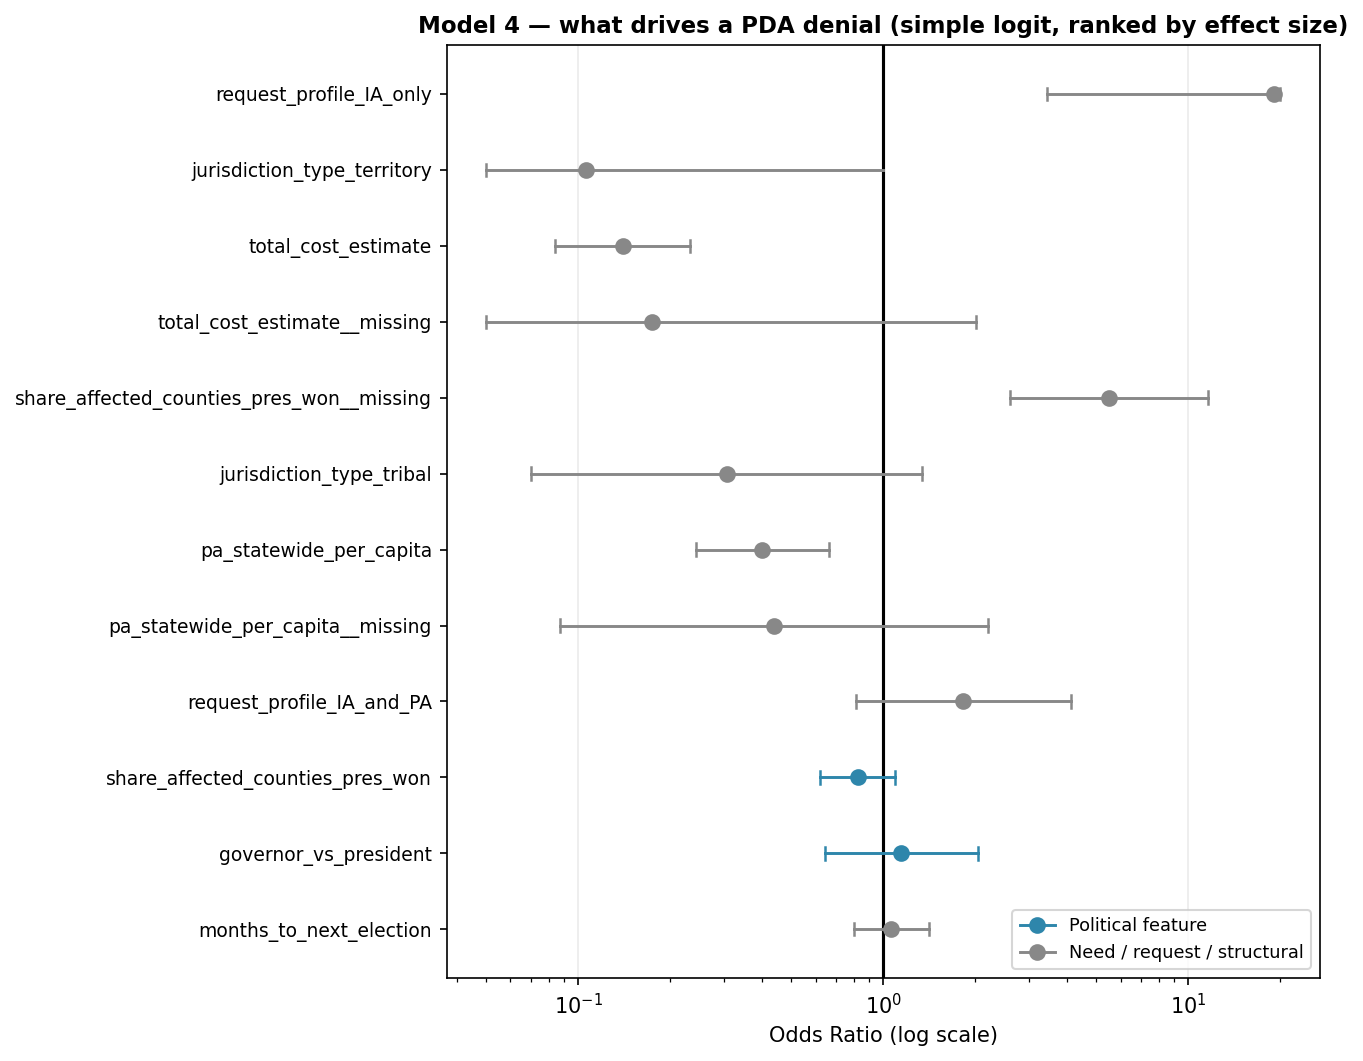
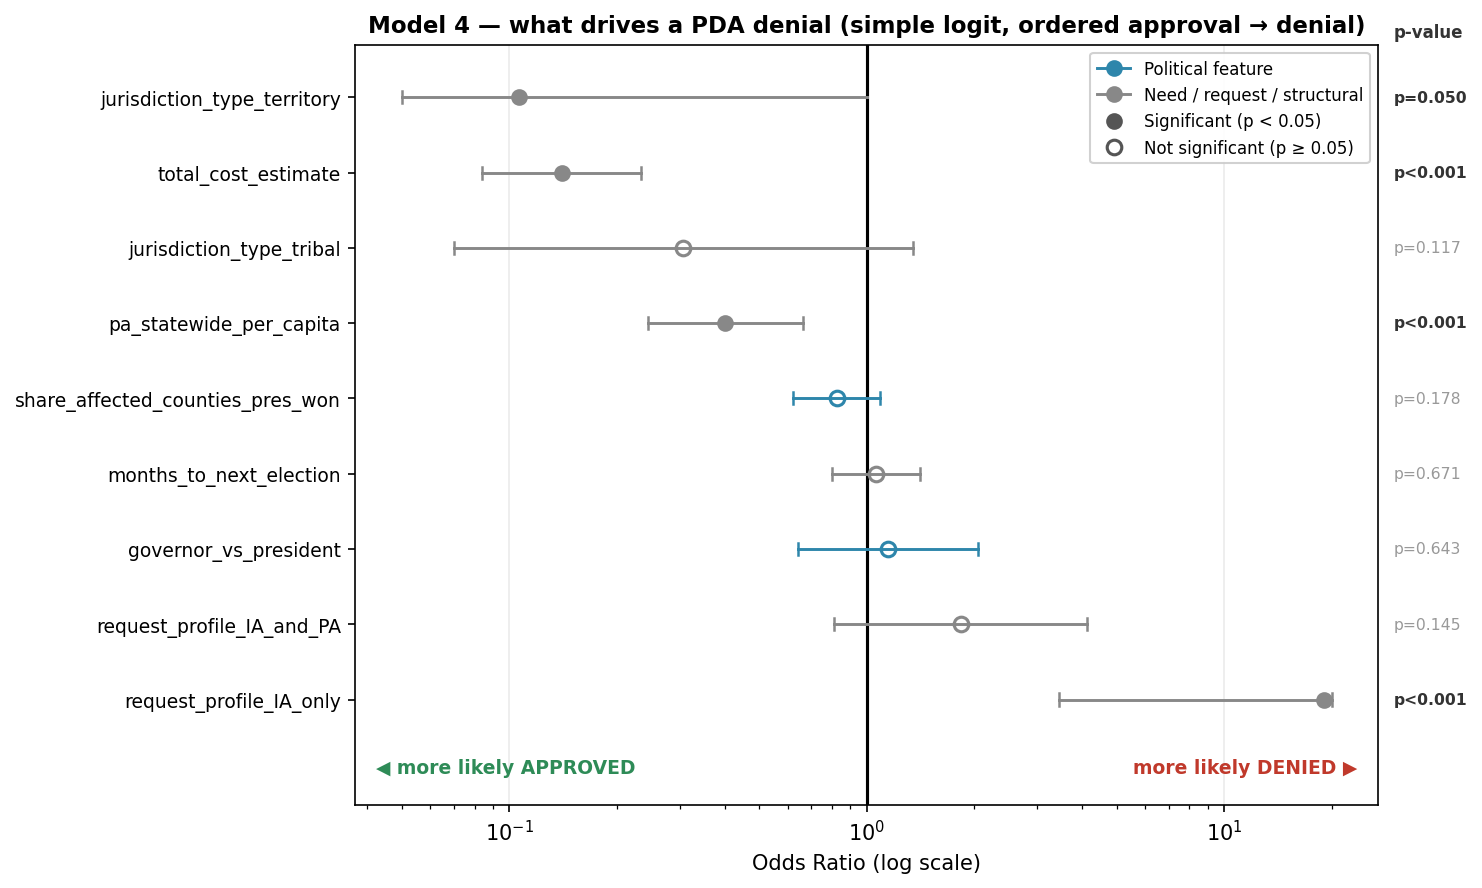
feat: reorder fig7 approval→denial with p-values + direction arrows
Order Model 4's odds-ratio forest plot by the odds ratio so the column reads
approval-leaning (top) to denial-leaning (bottom). Add a per-row p-value
column (filled marker = significant p<0.05, open = not) and approve/deny
direction arrows under the axis. Drop the "__missing" indicator rows as
data-hygiene flags, not substantive predictors. Update header + changelog.

diff --git a/scripts/plot_model_results.py b/scripts/plot_model_results.py
@@ -2,8 +2,8 @@
 """
 Title: scripts/plot_model_results.py — Chart generation for PDA model KPIs and outcomes.
 Description:
-    Computes fresh KPIs for the three PDA decision models by calling their
-    public API functions, then renders five publication-ready PNG charts to
+    Computes fresh KPIs for the PDA decision models by calling their
+    public API functions, then renders seven publication-ready PNG charts to
     docs/models/figures/. Mirrors the computation pattern in
     scripts/run_all_models.py.
 
@@ -20,6 +20,9 @@ Description:
         fig6_lay_effects.png        — lay-reader effects: Model 1 political &
                                       need factors as probability-point effects
                                       on the denial rate (estimate + range).
+        fig7_m4_forest.png          — forest plot: Model 4 odds ratios ordered
+                                      approval → denial, with per-row p-values and
+                                      direction arrows.
 
     Run:
         .venv/bin/python -m scripts.plot_model_results [--db data/pda.db]
@@ -30,6 +33,8 @@ Description:
 Changelog:
     2026-06-28  Initial version.
     2026-06-29  Add fig6 lay-reader effects helper + chart.
+    2026-06-30  fig7: order approval → denial, label rows with p-values + add
+                direction arrows, drop the "__missing" indicator rows.
 """
 
 import argparse
@@ -766,14 +771,35 @@ def plot_fig6_lay_effects(effects_df, baseline_p, out_dir):
 _M4_POLITICAL = {"governor_vs_president", "share_affected_counties_pres_won"}
 _M4_MUTED = "#888888"
 
+# Coefficients with a Wald p-value below this get a filled marker and a bold
+# label in fig7; weaker ones get an open marker and a greyed label.
+_M4_SIG_LEVEL = 0.05
+
+# Suffix of the median-imputation indicator columns excluded from fig7 (they are
+# data-hygiene flags, not substantive predictors of the decision).
+_M4_MISSING_SUFFIX = "__missing"
+
+# Direction-arrow colours under the fig7 axis: the outcome is "denied", so an
+# odds ratio below 1 pushes toward approval and above 1 pushes toward denial.
+_DIR_APPROVE = "#2E8B57"   # green — OR < 1
+_DIR_DENY = _RED           # red   — OR > 1
+
 
 def plot_fig7_m4_forest(table, out_dir):
-    """Horizontal forest plot: Model 4 odds ratios, ranked by effect magnitude.
+    """Horizontal forest plot: Model 4 odds ratios, ordered approval → denial.
 
-    One row per retained feature, sorted by |standardized coefficient| (largest at
-    top). LOG x-axis, reference line at OR=1. Political features are drawn in the
-    accent colour; need/request/structural features are muted grey. CI whiskers are
-    clipped to a sane visible range so the log scale does not explode.
+    One row per retained feature, ordered by the odds ratio so the column reads
+    top-to-bottom as a gradient from the most approval-leaning predictor (lowest
+    OR, top) to the most denial-leaning predictor (highest OR, bottom). The
+    outcome is "denied", so OR < 1 lowers the odds of denial (pushes toward
+    approval) and OR > 1 raises them (pushes toward denial); paired arrows under
+    the axis label that direction. Each row is annotated with its Wald p-value: a
+    filled marker plus a bold label marks a significant coefficient (p < 0.05) and
+    an open marker plus a greyed label a non-significant one. The median-imputation
+    "__missing" indicator columns are dropped (data-hygiene flags, not substantive
+    predictors). Political features use the accent colour, others muted grey. LOG
+    x-axis with a reference line at OR = 1 (no effect); CI whiskers are clipped to a
+    sane visible range so the log scale does not explode.
 
     Args:
         table (DataFrame): model4_simple_logit.odds_ratio_table output — indexed by
@@ -782,28 +808,69 @@ def plot_fig7_m4_forest(table, out_dir):
     Returns:
         None. Saves fig7_m4_forest.png to out_dir.
     """
-    ranked = table.reindex(table["std_coef"].abs().sort_values().index)
+    # Drop the missingness indicators, then order by signed effect: sorting
+    # std_coef descending puts the highest OR (most denial-leaning) at index 0,
+    # which matplotlib draws at the bottom, so the column reads approval → denial
+    # top-to-bottom and the markers fall on a top-left → bottom-right diagonal.
+    substantive = table.loc[
+        [f for f in table.index if not f.endswith(_M4_MISSING_SUFFIX)]
+    ]
+    ranked = substantive.sort_values("std_coef", ascending=False)
     n = len(ranked)
     y_pos = np.arange(n, dtype=float)
 
-    fig, ax = plt.subplots(figsize=(9, max(5, n * 0.45 + 1.8)))
+    fig, ax = plt.subplots(figsize=(10, max(5, n * 0.45 + 2.0)))
     for i, (feat, row) in enumerate(ranked.iterrows()):
         color = _BLUE if feat in _M4_POLITICAL else _M4_MUTED
+        significant = bool(row["p_value"] < _M4_SIG_LEVEL)
         lo = max(row["ci_low"], 0.05)
         hi = min(row["ci_high"], 20.0)
-        ax.plot(row["odds_ratio"], y_pos[i], "o", color=color, markersize=7, zorder=5)
+        # Filled marker = significant; open marker = not significant.
+        marker_kwargs = {"color": color, "markersize": 7, "zorder": 5}
+        if not significant:
+            marker_kwargs.update(markerfacecolor="none", markeredgewidth=1.5)
+        ax.plot(row["odds_ratio"], y_pos[i], "o", **marker_kwargs)
         ax.plot([lo, hi], [y_pos[i], y_pos[i]], color=color, linewidth=1.4, zorder=4)
         ax.plot([lo, lo], [y_pos[i] - 0.08, y_pos[i] + 0.08], color=color, lw=1.2)
         ax.plot([hi, hi], [y_pos[i] - 0.08, y_pos[i] + 0.08], color=color, lw=1.2)
+
+        # p-value label in a fixed column just outside the right spine.
+        p = float(row["p_value"])
+        p_text = "p<0.001" if p < 0.001 else f"p={p:.3f}"
+        ax.annotate(
+            p_text, xy=(1.015, y_pos[i]), xycoords=("axes fraction", "data"),
+            va="center", ha="left", fontsize=7.5,
+            color="#333" if significant else "#999",
+            fontweight="bold" if significant else "normal",
+        )
 
     ax.axvline(1.0, color="black", linewidth=1.5, linestyle="-", zorder=2)
     ax.set_xscale("log")
     ax.set_yticks(y_pos)
     ax.set_yticklabels(ranked.index, fontsize=9)
+    ax.set_ylim(-1.4, n - 0.3)   # headroom below row 0 for the direction arrows
     ax.set_xlabel("Odds Ratio (log scale)", fontsize=10)
     ax.set_title(
-        "Model 4 — what drives a PDA denial (simple logit, ranked by effect size)",
+        "Model 4 — what drives a PDA denial (simple logit, ordered approval → denial)",
         fontsize=11, fontweight="bold",
+    )
+
+    # Column header for the p-value labels, aligned just outside the right spine.
+    ax.annotate(
+        "p-value", xy=(1.015, 1.005), xycoords="axes fraction",
+        va="bottom", ha="left", fontsize=8, fontweight="bold", color="#333",
+    )
+
+    # Direction arrows along the bottom: which way each side of OR = 1 leans.
+    ax.annotate(
+        "◀ more likely APPROVED", xy=(0.02, -0.9),
+        xycoords=("axes fraction", "data"), ha="left", va="center",
+        fontsize=9, fontweight="bold", color=_DIR_APPROVE,
+    )
+    ax.annotate(
+        "more likely DENIED ▶", xy=(0.98, -0.9),
+        xycoords=("axes fraction", "data"), ha="right", va="center",
+        fontsize=9, fontweight="bold", color=_DIR_DENY,
     )
 
     political_handle = mlines.Line2D(
@@ -814,8 +881,19 @@ def plot_fig7_m4_forest(table, out_dir):
         [], [], color=_M4_MUTED, marker="o", linewidth=1.4, markersize=7,
         label="Need / request / structural",
     )
-    ax.legend(handles=[political_handle, other_handle], fontsize=8.5,
-              loc="lower right")
+    sig_handle = mlines.Line2D(
+        [], [], color="#555", marker="o", linewidth=0, markersize=7,
+        label="Significant (p < 0.05)",
+    )
+    nonsig_handle = mlines.Line2D(
+        [], [], color="#555", marker="o", linewidth=0, markersize=7,
+        markerfacecolor="none", markeredgewidth=1.5,
+        label="Not significant (p ≥ 0.05)",
+    )
+    ax.legend(
+        handles=[political_handle, other_handle, sig_handle, nonsig_handle],
+        fontsize=8, loc="upper right", framealpha=0.9,
+    )
     ax.grid(axis="x", alpha=0.25)
 
     fig.tight_layout()
